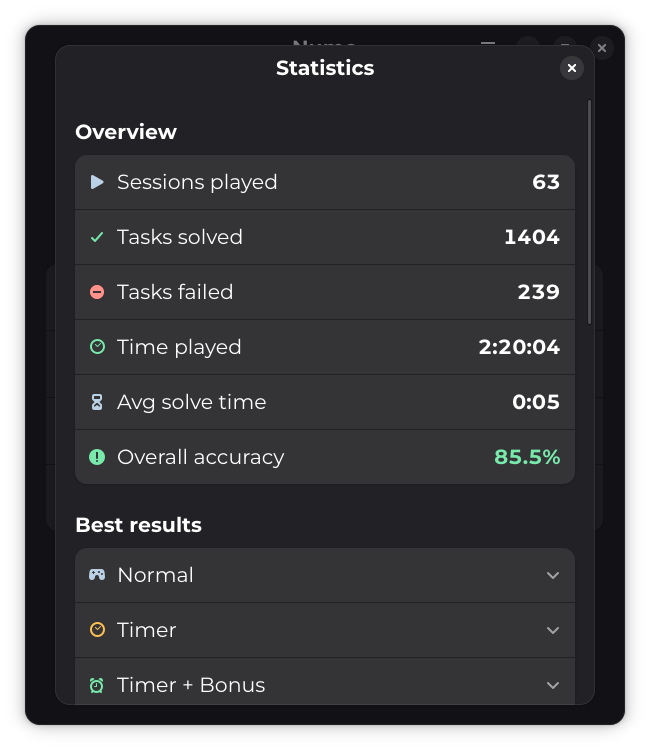
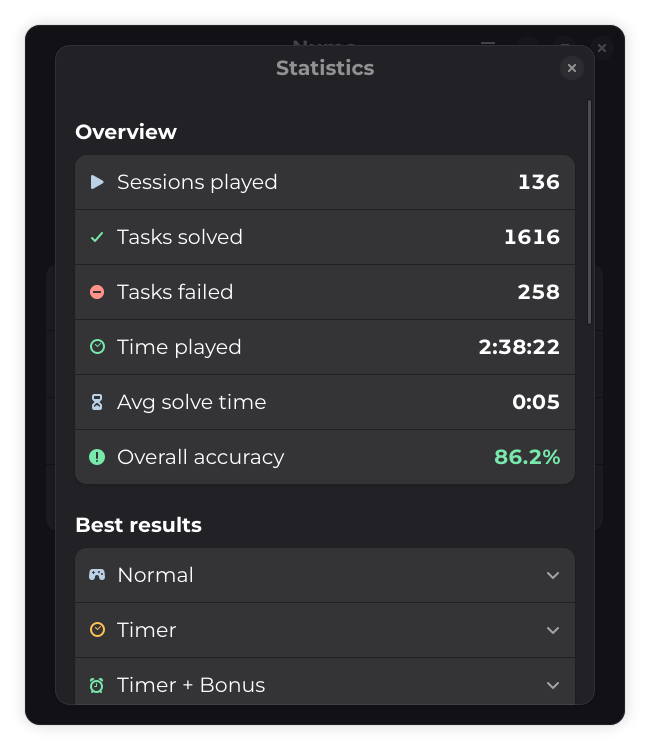
update the project to a new version

diff --git a/src/ui/settings.py b/src/ui/settings.py
@@ -89,6 +89,7 @@ class NumoSettingsWindow(Adw.PreferencesDialog):
         self._connect_range_pairs()
         self._connect_operation_switches()
         self._connect_buttons()
+        self._bind_stats_settings()
 
         self._gio.connect("changed", self._on_custom_settings_changed)
 

diff --git a/src/core/core_settings.py b/src/core/core_settings.py
@@ -6,7 +6,7 @@ from numo.game.task import Operation
 
 
 SCHEMA_VERSION = 1
-APP_VERSION = '0.4'
+APP_VERSION = '0.5'
 MAX_SESSIONS = 5000
 STATS_FILENAME = "stats.json"
 APP_DATA_SUBDIR = "numo"

diff --git a/README.md b/README.md
@@ -14,9 +14,8 @@
 
 </div>
 
-## About project 🖩
-Numo is a small GNOME app for training mental arithmetic. It generates
-tasks on the fly and checks your answers instantly — no distraction, just numbers.
+## About project 🧠
+Numo is GNOME app for mental arithmetic practice. Tasks appear one after another, answers are checked on the spot, and nothing gets in the way — just you and the numbers. Pick one of four game modes, choose a preset difficulty, or build your own with Custom: pick the operations and set the ranges.
 
 
 ### Game modes
@@ -28,13 +27,11 @@ tasks on the fly and checks your answers instantly — no distraction, just numb
 ### Difficulty levels
 - **Easy**: addition, subtraction, and a bit of multiplication. Simple operations using small numbers, with no negative numbers.
 - **Medium**: precise division is introduced. Numbers become larger, problems more complex, and addition and subtraction operations may involve negative values.
-- **Hard**: integer division and mod are introduced, and negative numbers may now appear in multiplication and division operations. 
+- **Hard**: integer division and mod are introduced, and negative numbers may now appear in multiplication and division operations.
+- **Custom**: Complete control over the task. Choose any combination of operations, set custom number ranges for each, and specify whether subtraction results are allowed to be negative. There are, however, a few constraints: at least one operation must remain enabled, and each range must span a minimum of five values.
 
 ### Statistics
-Every session is recorded: result, accuracy, and time spent. The
-statistics screen shows your best results per mode and difficulty,
-recent games. Data can be exported and imported
-as JSON at any time.
+Every session is recorded: result, accuracy, and time spent. The statistics screen shows your best results per mode and difficulty, recent games. The number of recent sessions shown is adjustable in settings. Data can be exported and imported as JSON at any time.
   
 ## My first project 🌟
 This is my first GNOME application built with GTK4 and libadwaita. I'm using it as an opportunity to learn modern GNOME development practices.
@@ -44,9 +41,6 @@ If you spot something that could be done better according to the GNOME way, I'd 
 ## Roadmap 🗺
   
 The list below is not a rigid schedule, but merely an outline of the directions in which I would like to move.
-
-### Difficulty
-  - **Flexible difficulty settings**: allow customizing what each level does: which operations are included, number ranges, whether negative results are allowed. Right now the rules are hardcoded.
   
 ### Modes
   - **New game modes**: no concrete ideas yet. Candidate: "Reverse" (given the result, find the expression). Open to suggestions.
